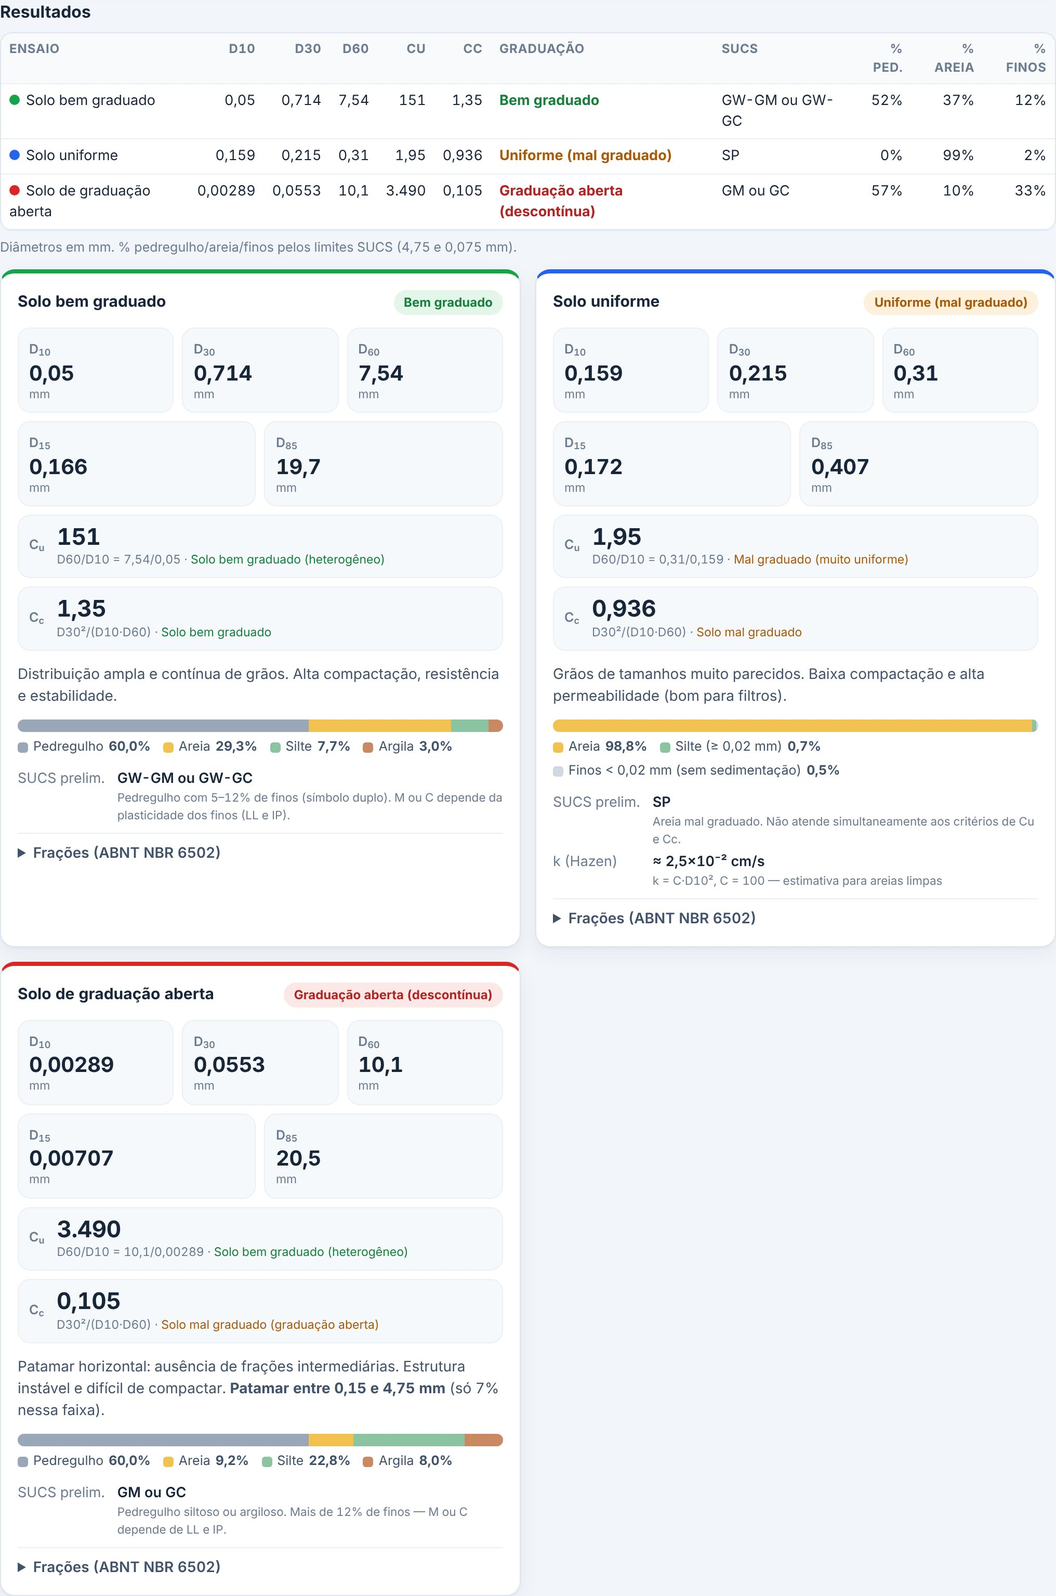
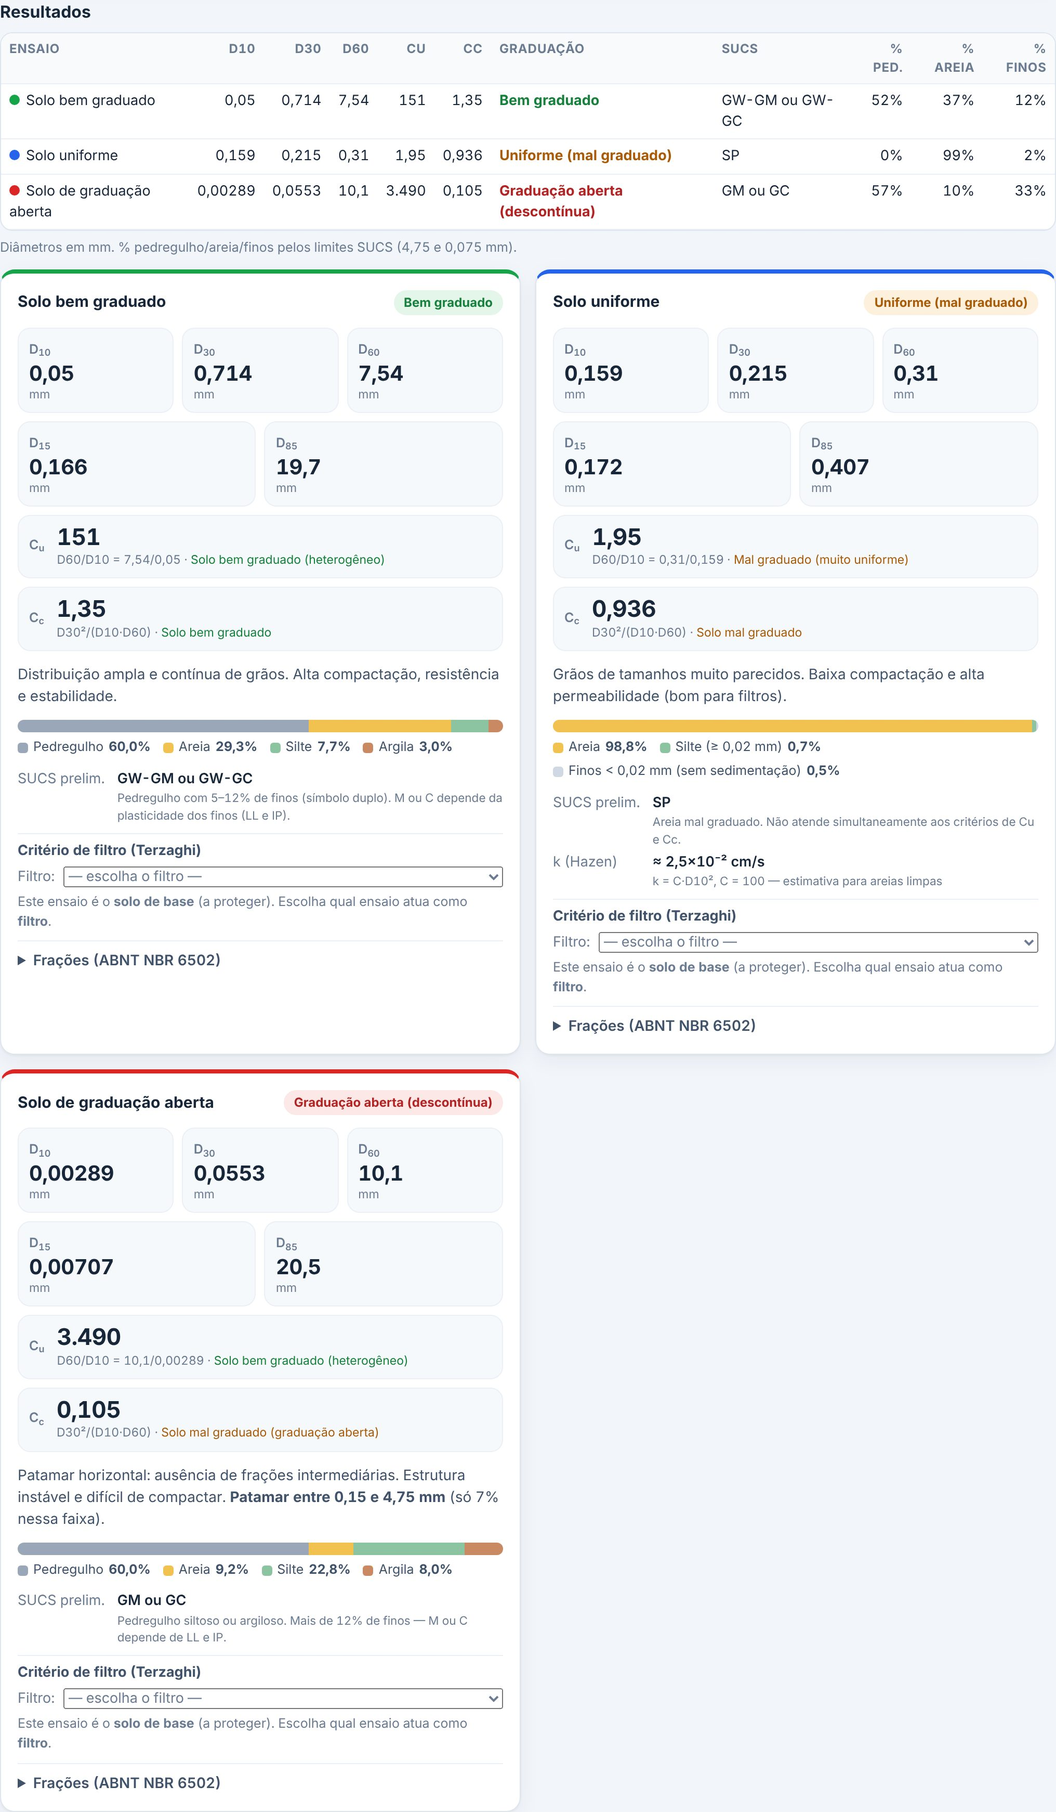
Critério de filtro de Terzaghi no card de resultados; cache do app v4; prints e README atualizados
Claude-Session: https://claude.ai/code/session_016NX9FAJMCqTnr8LjEF5nSe

diff --git a/index.html b/index.html
@@ -277,6 +277,14 @@ ol.steps li::before{content:counter(s);position:absolute;left:0;top:0;width:26px
 .app>*,.col>*,.results,.card{min-width:0}
 body{overflow-x:hidden}
 
+.filt{border-top:1px solid var(--line2);margin:4px 0 8px;padding-top:8px}
+.filt h4{margin:0 0 6px;font-size:13.5px;color:var(--ink2)}
+.filt .hint{margin:4px 0}
+.filt-sel{display:flex;align-items:center;gap:8px;font-size:13.5px;color:var(--muted);margin:2px 0 6px}
+.filt-sel select{flex:1;min-width:0;max-width:100%}
+.filt-tbl td small{display:block;color:var(--muted);font-size:12px}
+.filt .verdict{margin:6px 0 0}
+
 </style>
 </head>
 <body>
@@ -551,7 +559,7 @@ body{overflow-x:hidden}
   <div class="cards3">
     <div class="app-card"><h4>Aterros e terraplenagem</h4><p>Solos bem graduados atingem maior massa específica seca na compactação e maior resistência; a curva ajuda a escolher jazidas de empréstimo e a prever a facilidade de compactação.</p></div>
     <div class="app-card"><h4>Pavimentação</h4><p>Bases, sub-bases e reforços são especificados por <b>faixas granulométricas</b>: a curva do material precisa “caber” dentro da faixa de projeto. Misturas de dois ou mais solos corrigem a graduação.</p></div>
-    <div class="app-card"><h4>Filtros e drenos</h4><p>Critério de Terzaghi: D<sub>15</sub>(filtro)/D<sub>85</sub>(solo) &lt; 5 (retém o solo) e D<sub>15</sub>(filtro)/D<sub>15</sub>(solo) &gt; 5 (drena). Solos uniformes e limpos são bons filtros.</p></div>
+    <div class="app-card"><h4>Filtros e drenos</h4><p>Critério de Terzaghi (1922): D<sub>15</sub>(filtro)/d<sub>85</sub>(solo) &lt; 4 a 5 (relação de estabilidade, evita o <i>piping</i>) e D<sub>15</sub>(filtro)/d<sub>15</sub>(solo) &gt; 4 a 5 (relação de permeabilidade, o filtro drena). O app calcula isso no card de resultados: escolha o filtro entre os ensaios.</p></div>
     <div class="app-card"><h4>Permeabilidade (Hazen)</h4><p>Para areias limpas, k ≈ C·D<sub>10</sub>² (D<sub>10</sub> em cm, k em cm/s, C ≈ 100), válida para 0,1 mm &lt; D<sub>10</sub> &lt; 3 mm e C<sub>u</sub> &lt; 5. O app exibe essa estimativa quando aplicável.</p></div>
     <div class="app-card"><h4>Barragens e erosão interna</h4><p>Solos de graduação aberta (curva com patamar) podem perder a fração fina carregada pela água entre os grãos grossos — risco de erosão interna. A curva é o primeiro teste de suscetibilidade.</p></div>
     <div class="app-card"><h4>Liquefação de areias</h4><p>Areias finas, uniformes (C<sub>u</sub> baixo), fofas e saturadas são as mais suscetíveis à liquefação sob carregamento cíclico (sismos, vibrações).</p></div>
@@ -983,6 +991,21 @@ const GranuloCore = (() => {
   }
 
   // Hazen: k = C·D10² (D10 em cm → k em cm/s)
+  /* Critério de Terzaghi (1922) para filtros: base = solo a proteger, filtro = material drenante.
+     permeabilidade: D15(filtro)/d15(base) > 4 a 5  ·  estabilidade (piping): D15(filtro)/d85(base) < 4 a 5.
+     Faixa 4–5 = limítrofe (a literatura cita 4 ou 5 conforme o autor). */
+  function filterCriteria(base, filt) {
+    const g = (a, k) => (a && a.coef && a.coef[k] && a.coef[k].d != null) ? a.coef[k].d : null;
+    const D15f = g(filt, 'D15'), d15b = g(base, 'D15'), d85b = g(base, 'D85');
+    const perm = D15f != null && d15b != null ? D15f / d15b : null;
+    const pipe = D15f != null && d85b != null ? D15f / d85b : null;
+    const sPerm = perm == null ? null : perm > 5 ? 'ok' : perm >= 4 ? 'limite' : 'falha';
+    const sPipe = pipe == null ? null : pipe < 4 ? 'ok' : pipe <= 5 ? 'limite' : 'falha';
+    let overall = null;
+    if (sPerm && sPipe) overall = (sPerm === 'falha' || sPipe === 'falha') ? 'falha' : (sPerm === 'ok' && sPipe === 'ok') ? 'ok' : 'limite';
+    return { D15f, d15b, d85b, perm, pipe, sPerm, sPipe, overall };
+  }
+
   function hazen(D10mm, cu, C = 100) {
     if (D10mm == null) return null;
     const applicable = D10mm >= 0.1 && D10mm <= 3 && (cu == null || cu < 5);
@@ -1059,7 +1082,7 @@ const GranuloCore = (() => {
     SIEVES, SYSTEMS, GROUP_COLORS, EXAMPLES, LESSON_EXAMPLE, STD_ROWS,
     toNum, fmtNum, fmtPct, fmtSci, sieveFor, clamp,
     buildCurve, diameterAt, passAt, coefficients, classifyCu, classifyCc, detectGap,
-    composition, sucsGroups, sucsPrelim, hazen, analyze,
+    composition, sucsGroups, sucsPrelim, hazen, filterCriteria, analyze,
   };
 })();
 
@@ -2444,7 +2467,31 @@ const GranuloChart = (() => {
     if (r && r.reason === 'abaixo') return `curva não chega a ${key.slice(1)}%`;
     return 'indisponível';
   }
-  function resultCard(e, a) {
+  const FILT = { ok: ['ok', 'Atende'], limite: ['warn', 'Limítrofe (4 a 5)'], falha: ['bad', 'Não atende'] };
+  function filterBlock(e, a, ok) {
+    const others = ok.filter(x => x.id !== e.id);
+    const head = '<div class="filt"><h4>Critério de filtro (Terzaghi)</h4>';
+    if (!others.length) return head + '<p class="hint">Adicione outro ensaio válido para usá-lo como material de filtro deste solo.</p></div>';
+    const sel = others.some(x => x.id === e.filter) ? e.filter : '';
+    const opts = `<option value="">— escolha o filtro —</option>` + others.map(x => `<option value="${esc(x.id)}"${x.id === sel ? ' selected' : ''}>${esc(x.name || 'Sem nome')}</option>`).join('');
+    let body = '<p class="hint">Este ensaio é o <b>solo de base</b> (a proteger). Escolha qual ensaio atua como <b>filtro</b>.</p>';
+    if (sel) {
+      const r = C.filterCriteria(a, A.get(sel));
+      const fm = (x) => x == null ? '—' : C.fmtNum(x, 3);
+      const row = (name, formula, val, st, rule) => {
+        const [tone, lbl] = st ? FILT[st] : ['muted', 'indisponível'];
+        return `<tr><td>${name}<small>${formula}</small></td><td class="n"><b>${fm(val)}</b></td><td>${rule}</td><td><span class="pill ${tone}">${lbl}</span></td></tr>`;
+      };
+      body += `<table class="tbl filt-tbl">
+        ${row('Permeabilidade', 'D<sub>15</sub>(filtro) / d<sub>15</sub>(base)', r.perm, r.sPerm, '&gt; 4 a 5')}
+        ${row('Estabilidade (piping)', 'D<sub>15</sub>(filtro) / d<sub>85</sub>(base)', r.pipe, r.sPipe, '&lt; 4 a 5')}
+      </table>
+      <p class="hint">D<sub>15</sub> filtro = ${r.D15f != null ? C.fmtNum(r.D15f) + ' mm' : '—'} · d<sub>15</sub> base = ${r.d15b != null ? C.fmtNum(r.d15b) + ' mm' : '—'} · d<sub>85</sub> base = ${r.d85b != null ? C.fmtNum(r.d85b) + ' mm' : '—'}. Valores entre 4 e 5 são limítrofes: a literatura adota 4 ou 5 conforme o autor.</p>`;
+      if (r.overall) { const [tone, lbl] = FILT[r.overall]; body += `<p class="verdict"><span class="pill ${tone}">${r.overall === 'ok' ? 'Filtro adequado' : r.overall === 'limite' ? 'Verificar (limítrofe)' : 'Filtro inadequado'}</span> ${r.overall === 'falha' ? (r.sPerm === 'falha' ? 'Filtro pouco permeável em relação ao solo. ' : '') + (r.sPipe === 'falha' ? 'Filtro grosso demais: não retém as partículas do solo (risco de piping). ' : '') : ''}</p>`; }
+    }
+    return head + `<label class="filt-sel">Filtro: <select data-filter="${esc(e.id)}">${opts}</select></label>${body}</div>`;
+  }
+  function resultCard(e, a, ok) {
     const co = a.coef, g = a.grading, cuc = a.cuClass, ccc = a.ccClass;
     const groups = a.comp.groups.filter(x => x.pct != null && x.pct > 0.05);
     const segs = [...groups.map(x => ({ label: x.label + (x.partial ? ' (≥ ' + C.fmtNum(a.comp.dmin) + ' mm)' : ''), pct: x.pct, color: x.color })),
@@ -2471,6 +2518,7 @@ const GranuloChart = (() => {
         ${a.sucs ? `<dt>SUCS prelim.</dt><dd>${esc(a.sucs.symbol)}<small>${esc(a.sucs.name)}. ${esc(a.sucs.note)}</small></dd>` : ''}
         ${h ? `<dt>k (Hazen)</dt><dd>≈ ${C.fmtSci(a.hazen.k)} cm/s<small>k = C·D10², C = 100 — estimativa para areias limpas</small></dd>` : ''}
       </dl>
+      ${filterBlock(e, a, ok)}
       <details><summary>Frações (${esc(C.SYSTEMS[state.system].name)})</summary>
         <table class="tbl" style="margin-top:6px"><tr><th>Fração</th><th>Intervalo</th><th class="n">%</th></tr>${frTbl}</table>
         ${a.comp.approx ? '<p class="hint" style="margin-top:6px">Limite silte/areia de 0,06 mm aproximado pela peneira nº 200 (0,075 mm).</p>' : ''}
@@ -2478,6 +2526,12 @@ const GranuloChart = (() => {
       </details>
     </article>`;
   }
+  $('#results').addEventListener('change', (ev) => {
+    const t = ev.target.closest && ev.target.closest('select[data-filter]');
+    if (!t) return;
+    const e = state.ensaios.find(x => x.id === t.dataset.filter);
+    if (e) { e.filter = t.value || ''; renderResults(); save(); }
+  });
   function renderResults() {
     const list = state.ensaios.filter(e => e.visible);
     const ok = list.filter(e => A.get(e.id).valid);
@@ -2491,7 +2545,7 @@ const GranuloChart = (() => {
           ok.map(e => { const a = A.get(e.id), co = a.coef, sg = a.sg; return `<tr><td><span class="sw" style="--c:${e.color}"></span>${esc(e.name)}</td><td class="n">${f(co.D10.d)}</td><td class="n">${f(co.D30.d)}</td><td class="n">${f(co.D60.d)}</td><td class="n">${f(co.Cu)}</td><td class="n">${f(co.Cc)}</td><td><span class="tone-${a.grading.tone}"><b>${esc(a.grading.label)}</b></span></td><td>${a.sucs ? esc(a.sucs.symbol) : '—'}</td><td class="n">${sg ? C.fmtPct(sg.gravel, 0) : '—'}</td><td class="n">${sg ? C.fmtPct(sg.sand, 0) : '—'}</td><td class="n">${sg ? C.fmtPct(sg.fines, 0) : '—'}</td></tr>`; }).join('') +
           '</table></div><p class="hint" style="margin-top:-6px">Diâmetros em mm. % pedregulho/areia/finos pelos limites SUCS (4,75 e 0,075 mm).</p>';
       }
-      html += `<div class="res-grid">${ok.map(e => resultCard(e, A.get(e.id))).join('')}</div>`;
+      html += `<div class="res-grid">${ok.map(e => resultCard(e, A.get(e.id), ok)).join('')}</div>`;
     }
     const pending = list.filter(e => !A.get(e.id).valid);
     if (pending.length && ok.length) html += `<p class="hint" style="margin-top:10px">Sem dados suficientes: ${pending.map(e => esc(e.name)).join(', ')}.</p>`;

diff --git a/src/app.js b/src/app.js
@@ -444,7 +444,31 @@
     if (r && r.reason === 'abaixo') return `curva não chega a ${key.slice(1)}%`;
     return 'indisponível';
   }
-  function resultCard(e, a) {
+  const FILT = { ok: ['ok', 'Atende'], limite: ['warn', 'Limítrofe (4 a 5)'], falha: ['bad', 'Não atende'] };
+  function filterBlock(e, a, ok) {
+    const others = ok.filter(x => x.id !== e.id);
+    const head = '<div class="filt"><h4>Critério de filtro (Terzaghi)</h4>';
+    if (!others.length) return head + '<p class="hint">Adicione outro ensaio válido para usá-lo como material de filtro deste solo.</p></div>';
+    const sel = others.some(x => x.id === e.filter) ? e.filter : '';
+    const opts = `<option value="">— escolha o filtro —</option>` + others.map(x => `<option value="${esc(x.id)}"${x.id === sel ? ' selected' : ''}>${esc(x.name || 'Sem nome')}</option>`).join('');
+    let body = '<p class="hint">Este ensaio é o <b>solo de base</b> (a proteger). Escolha qual ensaio atua como <b>filtro</b>.</p>';
+    if (sel) {
+      const r = C.filterCriteria(a, A.get(sel));
+      const fm = (x) => x == null ? '—' : C.fmtNum(x, 3);
+      const row = (name, formula, val, st, rule) => {
+        const [tone, lbl] = st ? FILT[st] : ['muted', 'indisponível'];
+        return `<tr><td>${name}<small>${formula}</small></td><td class="n"><b>${fm(val)}</b></td><td>${rule}</td><td><span class="pill ${tone}">${lbl}</span></td></tr>`;
+      };
+      body += `<table class="tbl filt-tbl">
+        ${row('Permeabilidade', 'D<sub>15</sub>(filtro) / d<sub>15</sub>(base)', r.perm, r.sPerm, '&gt; 4 a 5')}
+        ${row('Estabilidade (piping)', 'D<sub>15</sub>(filtro) / d<sub>85</sub>(base)', r.pipe, r.sPipe, '&lt; 4 a 5')}
+      </table>
+      <p class="hint">D<sub>15</sub> filtro = ${r.D15f != null ? C.fmtNum(r.D15f) + ' mm' : '—'} · d<sub>15</sub> base = ${r.d15b != null ? C.fmtNum(r.d15b) + ' mm' : '—'} · d<sub>85</sub> base = ${r.d85b != null ? C.fmtNum(r.d85b) + ' mm' : '—'}. Valores entre 4 e 5 são limítrofes: a literatura adota 4 ou 5 conforme o autor.</p>`;
+      if (r.overall) { const [tone, lbl] = FILT[r.overall]; body += `<p class="verdict"><span class="pill ${tone}">${r.overall === 'ok' ? 'Filtro adequado' : r.overall === 'limite' ? 'Verificar (limítrofe)' : 'Filtro inadequado'}</span> ${r.overall === 'falha' ? (r.sPerm === 'falha' ? 'Filtro pouco permeável em relação ao solo. ' : '') + (r.sPipe === 'falha' ? 'Filtro grosso demais: não retém as partículas do solo (risco de piping). ' : '') : ''}</p>`; }
+    }
+    return head + `<label class="filt-sel">Filtro: <select data-filter="${esc(e.id)}">${opts}</select></label>${body}</div>`;
+  }
+  function resultCard(e, a, ok) {
     const co = a.coef, g = a.grading, cuc = a.cuClass, ccc = a.ccClass;
     const groups = a.comp.groups.filter(x => x.pct != null && x.pct > 0.05);
     const segs = [...groups.map(x => ({ label: x.label + (x.partial ? ' (≥ ' + C.fmtNum(a.comp.dmin) + ' mm)' : ''), pct: x.pct, color: x.color })),
@@ -471,6 +495,7 @@
         ${a.sucs ? `<dt>SUCS prelim.</dt><dd>${esc(a.sucs.symbol)}<small>${esc(a.sucs.name)}. ${esc(a.sucs.note)}</small></dd>` : ''}
         ${h ? `<dt>k (Hazen)</dt><dd>≈ ${C.fmtSci(a.hazen.k)} cm/s<small>k = C·D10², C = 100 — estimativa para areias limpas</small></dd>` : ''}
       </dl>
+      ${filterBlock(e, a, ok)}
       <details><summary>Frações (${esc(C.SYSTEMS[state.system].name)})</summary>
         <table class="tbl" style="margin-top:6px"><tr><th>Fração</th><th>Intervalo</th><th class="n">%</th></tr>${frTbl}</table>
         ${a.comp.approx ? '<p class="hint" style="margin-top:6px">Limite silte/areia de 0,06 mm aproximado pela peneira nº 200 (0,075 mm).</p>' : ''}
@@ -478,6 +503,12 @@
       </details>
     </article>`;
   }
+  $('#results').addEventListener('change', (ev) => {
+    const t = ev.target.closest && ev.target.closest('select[data-filter]');
+    if (!t) return;
+    const e = state.ensaios.find(x => x.id === t.dataset.filter);
+    if (e) { e.filter = t.value || ''; renderResults(); save(); }
+  });
   function renderResults() {
     const list = state.ensaios.filter(e => e.visible);
     const ok = list.filter(e => A.get(e.id).valid);
@@ -491,7 +522,7 @@
           ok.map(e => { const a = A.get(e.id), co = a.coef, sg = a.sg; return `<tr><td><span class="sw" style="--c:${e.color}"></span>${esc(e.name)}</td><td class="n">${f(co.D10.d)}</td><td class="n">${f(co.D30.d)}</td><td class="n">${f(co.D60.d)}</td><td class="n">${f(co.Cu)}</td><td class="n">${f(co.Cc)}</td><td><span class="tone-${a.grading.tone}"><b>${esc(a.grading.label)}</b></span></td><td>${a.sucs ? esc(a.sucs.symbol) : '—'}</td><td class="n">${sg ? C.fmtPct(sg.gravel, 0) : '—'}</td><td class="n">${sg ? C.fmtPct(sg.sand, 0) : '—'}</td><td class="n">${sg ? C.fmtPct(sg.fines, 0) : '—'}</td></tr>`; }).join('') +
           '</table></div><p class="hint" style="margin-top:-6px">Diâmetros em mm. % pedregulho/areia/finos pelos limites SUCS (4,75 e 0,075 mm).</p>';
       }
-      html += `<div class="res-grid">${ok.map(e => resultCard(e, A.get(e.id))).join('')}</div>`;
+      html += `<div class="res-grid">${ok.map(e => resultCard(e, A.get(e.id), ok)).join('')}</div>`;
     }
     const pending = list.filter(e => !A.get(e.id).valid);
     if (pending.length && ok.length) html += `<p class="hint" style="margin-top:10px">Sem dados suficientes: ${pending.map(e => esc(e.name)).join(', ')}.</p>`;

diff --git a/src/theory.html b/src/theory.html
@@ -175,7 +175,7 @@
   <div class="cards3">
     <div class="app-card"><h4>Aterros e terraplenagem</h4><p>Solos bem graduados atingem maior massa específica seca na compactação e maior resistência; a curva ajuda a escolher jazidas de empréstimo e a prever a facilidade de compactação.</p></div>
     <div class="app-card"><h4>Pavimentação</h4><p>Bases, sub-bases e reforços são especificados por <b>faixas granulométricas</b>: a curva do material precisa “caber” dentro da faixa de projeto. Misturas de dois ou mais solos corrigem a graduação.</p></div>
-    <div class="app-card"><h4>Filtros e drenos</h4><p>Critério de Terzaghi: D<sub>15</sub>(filtro)/D<sub>85</sub>(solo) &lt; 5 (retém o solo) e D<sub>15</sub>(filtro)/D<sub>15</sub>(solo) &gt; 5 (drena). Solos uniformes e limpos são bons filtros.</p></div>
+    <div class="app-card"><h4>Filtros e drenos</h4><p>Critério de Terzaghi (1922): D<sub>15</sub>(filtro)/d<sub>85</sub>(solo) &lt; 4 a 5 (relação de estabilidade, evita o <i>piping</i>) e D<sub>15</sub>(filtro)/d<sub>15</sub>(solo) &gt; 4 a 5 (relação de permeabilidade, o filtro drena). O app calcula isso no card de resultados: escolha o filtro entre os ensaios.</p></div>
     <div class="app-card"><h4>Permeabilidade (Hazen)</h4><p>Para areias limpas, k ≈ C·D<sub>10</sub>² (D<sub>10</sub> em cm, k em cm/s, C ≈ 100), válida para 0,1 mm &lt; D<sub>10</sub> &lt; 3 mm e C<sub>u</sub> &lt; 5. O app exibe essa estimativa quando aplicável.</p></div>
     <div class="app-card"><h4>Barragens e erosão interna</h4><p>Solos de graduação aberta (curva com patamar) podem perder a fração fina carregada pela água entre os grãos grossos — risco de erosão interna. A curva é o primeiro teste de suscetibilidade.</p></div>
     <div class="app-card"><h4>Liquefação de areias</h4><p>Areias finas, uniformes (C<sub>u</sub> baixo), fofas e saturadas são as mais suscetíveis à liquefação sob carregamento cíclico (sismos, vibrações).</p></div>

diff --git a/src/core.js b/src/core.js
@@ -365,6 +365,21 @@ const GranuloCore = (() => {
   }
 
   // Hazen: k = C·D10² (D10 em cm → k em cm/s)
+  /* Critério de Terzaghi (1922) para filtros: base = solo a proteger, filtro = material drenante.
+     permeabilidade: D15(filtro)/d15(base) > 4 a 5  ·  estabilidade (piping): D15(filtro)/d85(base) < 4 a 5.
+     Faixa 4–5 = limítrofe (a literatura cita 4 ou 5 conforme o autor). */
+  function filterCriteria(base, filt) {
+    const g = (a, k) => (a && a.coef && a.coef[k] && a.coef[k].d != null) ? a.coef[k].d : null;
+    const D15f = g(filt, 'D15'), d15b = g(base, 'D15'), d85b = g(base, 'D85');
+    const perm = D15f != null && d15b != null ? D15f / d15b : null;
+    const pipe = D15f != null && d85b != null ? D15f / d85b : null;
+    const sPerm = perm == null ? null : perm > 5 ? 'ok' : perm >= 4 ? 'limite' : 'falha';
+    const sPipe = pipe == null ? null : pipe < 4 ? 'ok' : pipe <= 5 ? 'limite' : 'falha';
+    let overall = null;
+    if (sPerm && sPipe) overall = (sPerm === 'falha' || sPipe === 'falha') ? 'falha' : (sPerm === 'ok' && sPipe === 'ok') ? 'ok' : 'limite';
+    return { D15f, d15b, d85b, perm, pipe, sPerm, sPipe, overall };
+  }
+
   function hazen(D10mm, cu, C = 100) {
     if (D10mm == null) return null;
     const applicable = D10mm >= 0.1 && D10mm <= 3 && (cu == null || cu < 5);
@@ -441,7 +456,7 @@ const GranuloCore = (() => {
     SIEVES, SYSTEMS, GROUP_COLORS, EXAMPLES, LESSON_EXAMPLE, STD_ROWS,
     toNum, fmtNum, fmtPct, fmtSci, sieveFor, clamp,
     buildCurve, diameterAt, passAt, coefficients, classifyCu, classifyCc, detectGap,
-    composition, sucsGroups, sucsPrelim, hazen, analyze,
+    composition, sucsGroups, sucsPrelim, hazen, filterCriteria, analyze,
   };
 })();
 

diff --git a/tests/core.test.js b/tests/core.test.js
@@ -152,4 +152,18 @@ ok('formatação pt-BR', () => {
   assert.equal(C.fmtSci(0.032), '3,2×10⁻²');
 });
 
+ok('critério de filtro de Terzaghi', () => {
+  const [bem, uni, ab] = C.EXAMPLES.map(e => C.analyze(e, 'sucs'));
+  const r = C.filterCriteria(bem, uni);   // base = bem graduado, filtro = areia uniforme
+  near(r.perm, uni.coef.D15.d / bem.coef.D15.d, 1e-9);
+  near(r.pipe, uni.coef.D15.d / bem.coef.D85.d, 1e-9);
+  const fake = (d15, d85) => ({ coef: { D15: { d: d15 }, D85: { d: d85 } } });
+  assert.equal(C.filterCriteria(fake(1, 10), fake(6, 1)).sPerm, 'ok');      // 6 > 5
+  assert.equal(C.filterCriteria(fake(1, 10), fake(4.5, 1)).sPerm, 'limite'); // 4–5
+  assert.equal(C.filterCriteria(fake(1, 10), fake(3, 1)).sPerm, 'falha');   // 3 < 4
+  assert.equal(C.filterCriteria(fake(1, 10), fake(3, 1)).sPipe, 'ok');      // 3/10 < 4
+  assert.equal(C.filterCriteria(fake(1, 1), fake(6, 1)).sPipe, 'falha');    // 6/1 > 5
+  assert.equal(C.filterCriteria(fake(1, 10), { coef: { D15: { d: null } } }).overall, null);
+});
+
 console.log(`\n${n} testes OK`);

diff --git a/src/style.css b/src/style.css
@@ -262,3 +262,11 @@ ol.steps li::before{content:counter(s);position:absolute;left:0;top:0;width:26px
 /* evita que tabelas largas alarguem a página no celular */
 .app>*,.col>*,.results,.card{min-width:0}
 body{overflow-x:hidden}
+
+.filt{border-top:1px solid var(--line2);margin:4px 0 8px;padding-top:8px}
+.filt h4{margin:0 0 6px;font-size:13.5px;color:var(--ink2)}
+.filt .hint{margin:4px 0}
+.filt-sel{display:flex;align-items:center;gap:8px;font-size:13.5px;color:var(--muted);margin:2px 0 6px}
+.filt-sel select{flex:1;min-width:0;max-width:100%}
+.filt-tbl td small{display:block;color:var(--muted);font-size:12px}
+.filt .verdict{margin:6px 0 0}

diff --git a/sw.js b/sw.js
@@ -1,5 +1,5 @@
 // Service worker simples: guarda o app para funcionar offline depois do 1º acesso.
-const CACHE = 'granulometria-v3';
+const CACHE = 'granulometria-v4';
 const FILES = ['./', 'index.html', 'manifest.webmanifest', 'icons/icon-192.png', 'icons/icon-512.png'];
 self.addEventListener('install', (e) => { e.waitUntil(caches.open(CACHE).then(c => c.addAll(FILES)).then(() => self.skipWaiting())); });
 self.addEventListener('activate', (e) => {

diff --git a/README.md b/README.md
@@ -13,6 +13,7 @@ Funciona **no navegador e no celular, sem instalar nada e sem internet**: é um 
 - **Curva profissional:** escala logarítmica, peneiras ASTM no topo, % retida acumulada no eixo da direita, faixas de sedimentação e peneiramento e D10/D15/D30/D60/D85 marcados no gráfico, com os valores listados ao lado (e no PNG exportado).
 - **Coeficientes e diagnóstico:** Cu, Cc e graduação (bem graduado, uniforme ou graduação aberta) com a fórmula aplicada e a interpretação do resultado.
 - **Classificação e frações:** frações pela ABNT NBR 6502 ou pelo SUCS (ASTM D2487), SUCS preliminar e estimativa de permeabilidade (Hazen) para areias limpas.
+- **Critério de filtro (Terzaghi):** escolha um ensaio como filtro de outro e veja na hora as relações de permeabilidade e de estabilidade (piping), com o veredito "atende", "limítrofe" ou "não atende".
 - **Vários ensaios no mesmo gráfico:** compare amostras lado a lado, cada uma com sua cor.
 - **Pronto para o relatório:** exporte o gráfico em PNG ou uma planilha Excel com dados, coeficientes e gráfico.
 - **Aula embutida:** a aba Teoria explica peneiramento, sedimentação, Cu e Cc, tipos de curva, SUCS e aplicações práticas.
